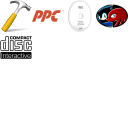
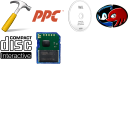
[librpbase] Achievements: New achievement for viewing a Wii U sdboot image.
[libromdata] WiiUAncast::checkViewedAchievements(): Add the hook here.

[res] Update the achievement sprite sheets.

Using a partially opened SD card photo.

Changed region(s): [[0.2812, 0.25, 0.5, 0.5]]

diff --git a/src/librpbase/Achievements.cpp b/src/librpbase/Achievements.cpp
@@ -80,7 +80,7 @@ public:
 					// AT_BITFIELD: Number of bits. (up to 64)
 					//              All bits must be 1 to unlock.
 	};
-	static const array<AchInfo_t, 5> achInfo;
+	static const array<AchInfo_t, 6> achInfo;
 
 	// C++14 adds support for enum classes as unordered_map keys.
 	// C++11 needs an explicit hash functor.
@@ -193,7 +193,7 @@ public:
 /** AchievementsPrivate **/
 
 // Achievement information.
-const array<AchievementsPrivate::AchInfo_t, 5> AchievementsPrivate::achInfo = {{
+const array<AchievementsPrivate::AchInfo_t, 6> AchievementsPrivate::achInfo = {{
 	{
 		NOP_C_("Achievements", "You are now a developer!"),
 		NOP_C_("Achievements", "Viewed a debug-encrypted file."),
@@ -217,6 +217,11 @@ const array<AchievementsPrivate::AchInfo_t, 5> AchievementsPrivate::achInfo = {{
 	{
 		NOP_C_("Achievements", "Link, mah boi..."),
 		NOP_C_("Achievements", "Viewed a CD-i disc image."),
+		AT_COUNT, 1
+	},
+	{
+		NOP_C_("Achievements", "Paid The Beak"),
+		NOP_C_("Achievements", "Viewed a Wii U sdboot firmware image."),
 		AT_COUNT, 1
 	},
 }};

diff --git a/src/libromdata/Console/WiiUAncast.cpp b/src/libromdata/Console/WiiUAncast.cpp
@@ -681,8 +681,13 @@ int WiiUAncast::checkViewedAchievements(void) const
 
 	int ret = 0;
 	if (console_type == WIIU_ANCAST_CONSOLE_TYPE_DEVEL) {
-		// Debug encryption.
+		// Debug encryption
 		pAch->unlock(Achievements::ID::ViewedDebugCryptedFile);
+		ret++;
+	}
+	if (target_device == WIIU_ANCAST_TARGET_DEVICE_ARM_SD) {
+		// sdboot
+		pAch->unlock(Achievements::ID::ViewedWiiUsdbootImage);
 		ret++;
 	}
 

diff --git a/src/librpbase/Achievements.hpp b/src/librpbase/Achievements.hpp
@@ -65,6 +65,9 @@ class Achievements
 			// CD-i disc image
 			ViewedCDiDiscImage		= 4,
 
+			// Wii U sdboot image
+			ViewedWiiUsdbootImage		= 5,
+
 			Max
 		};
 
